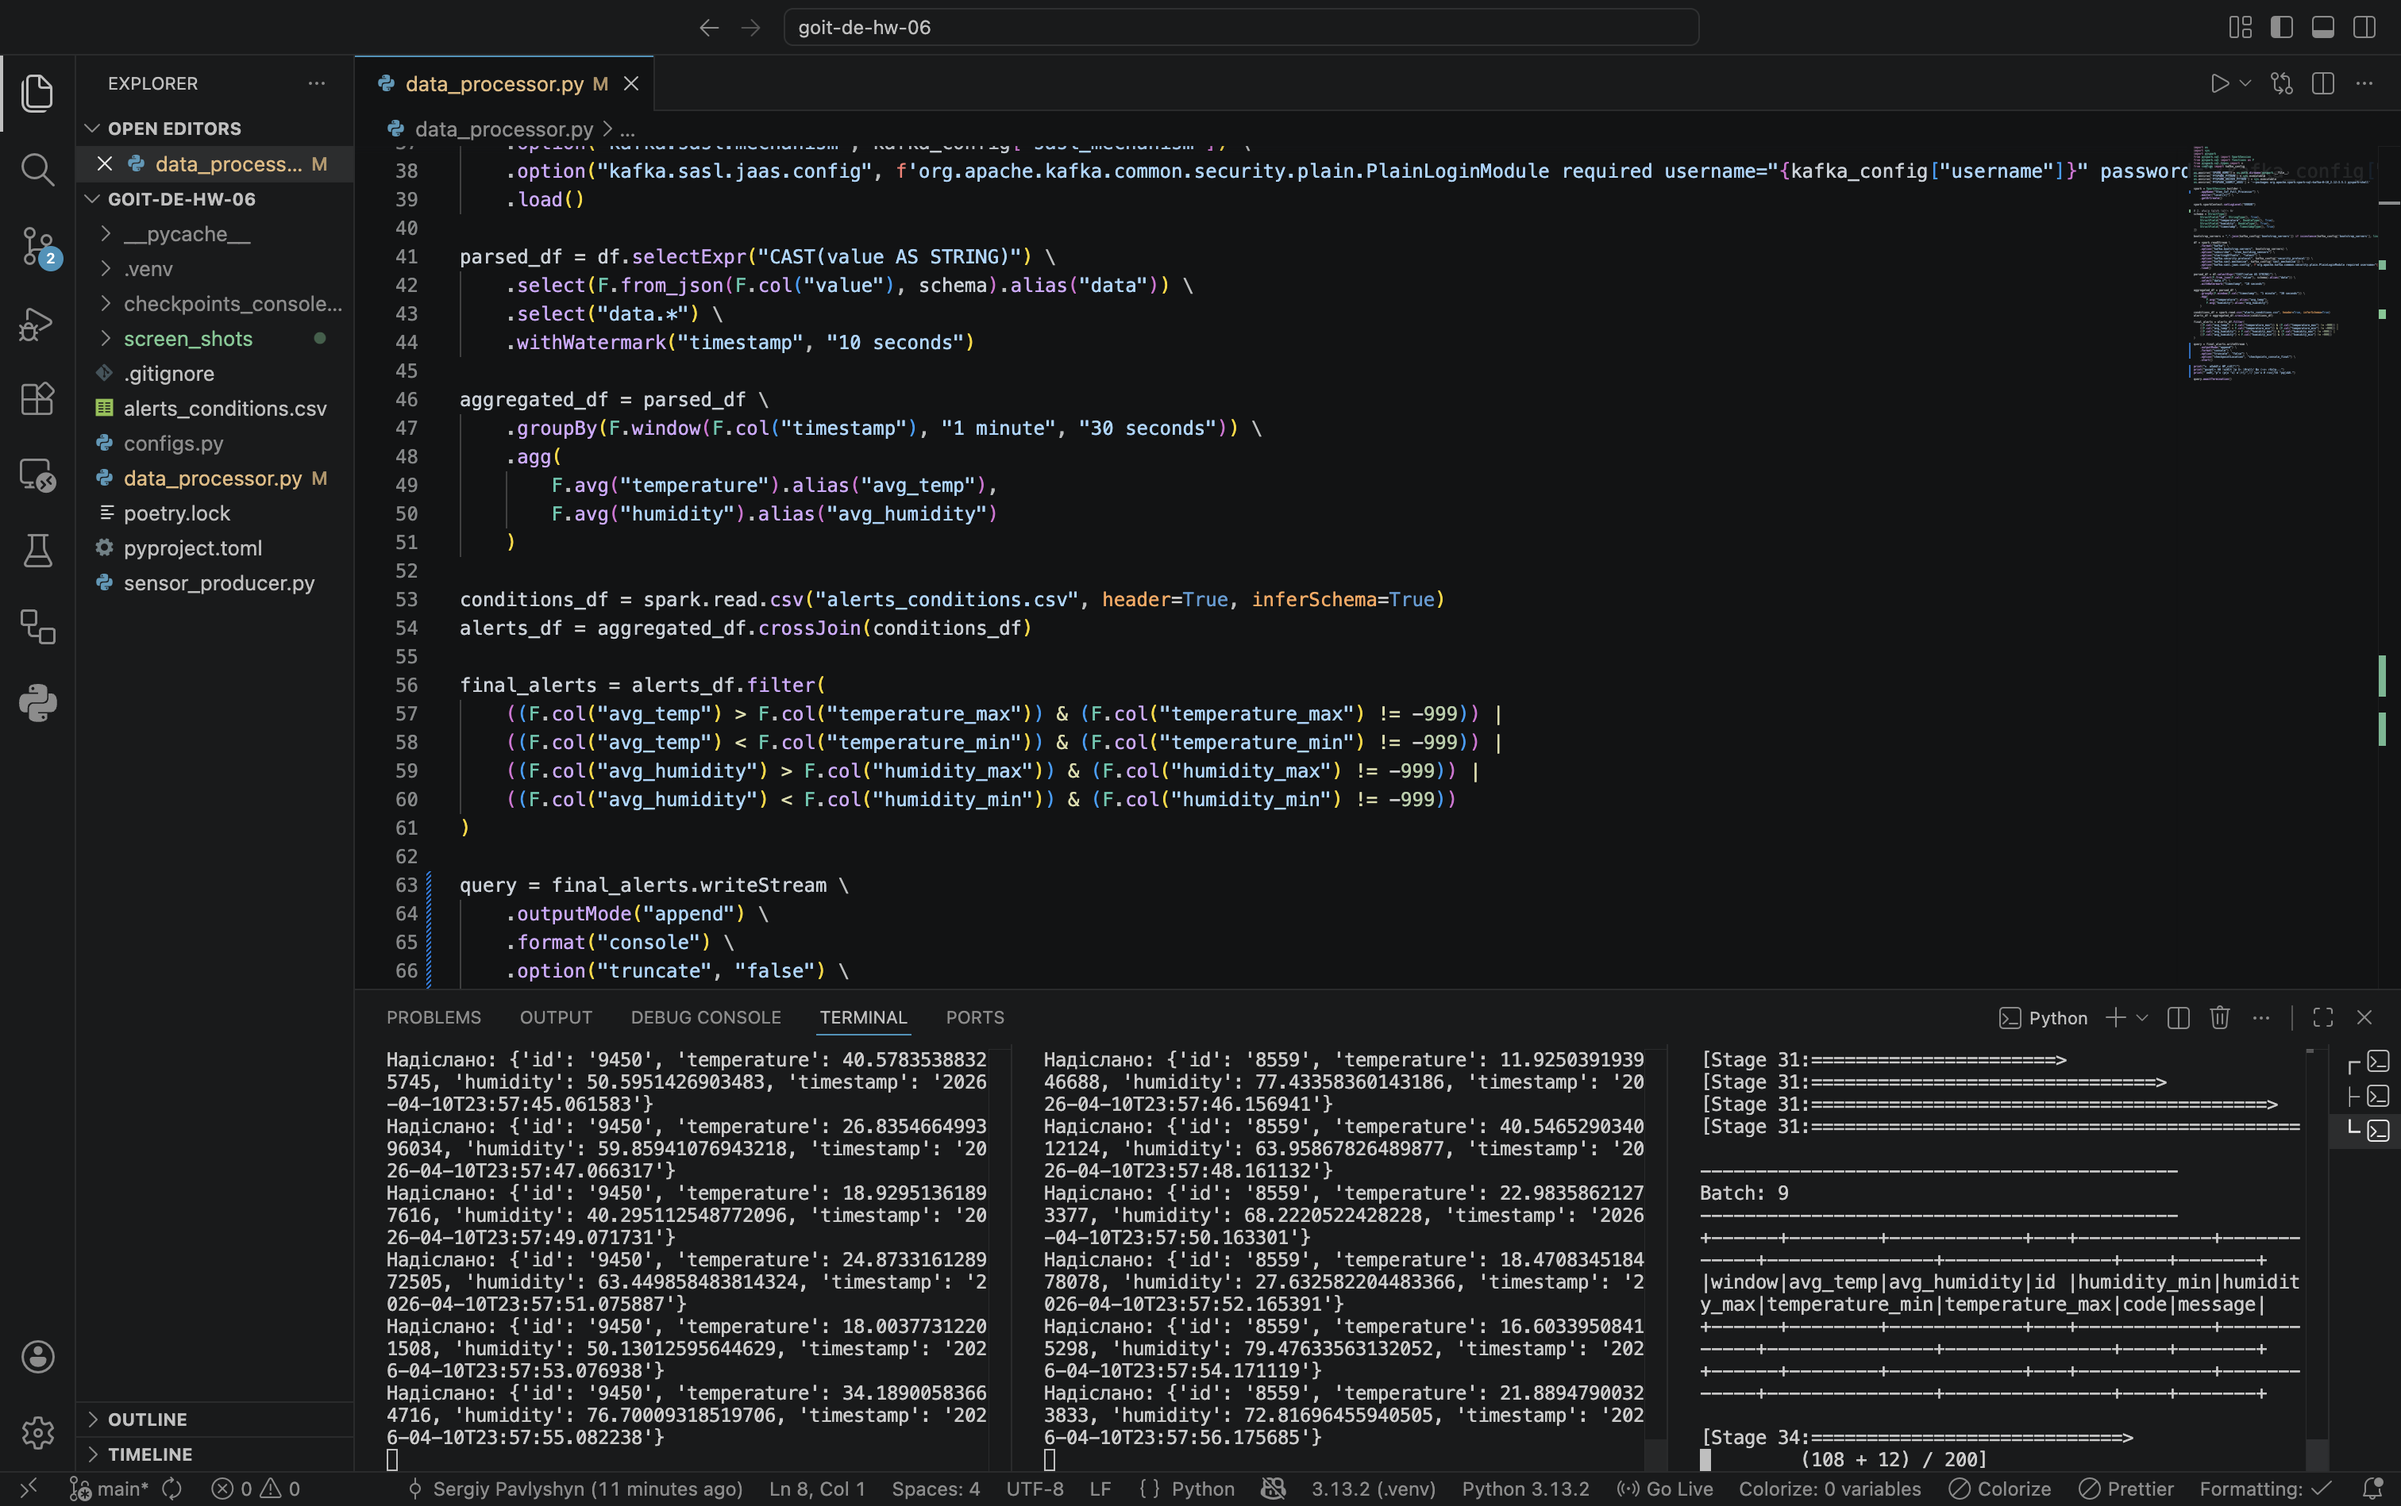
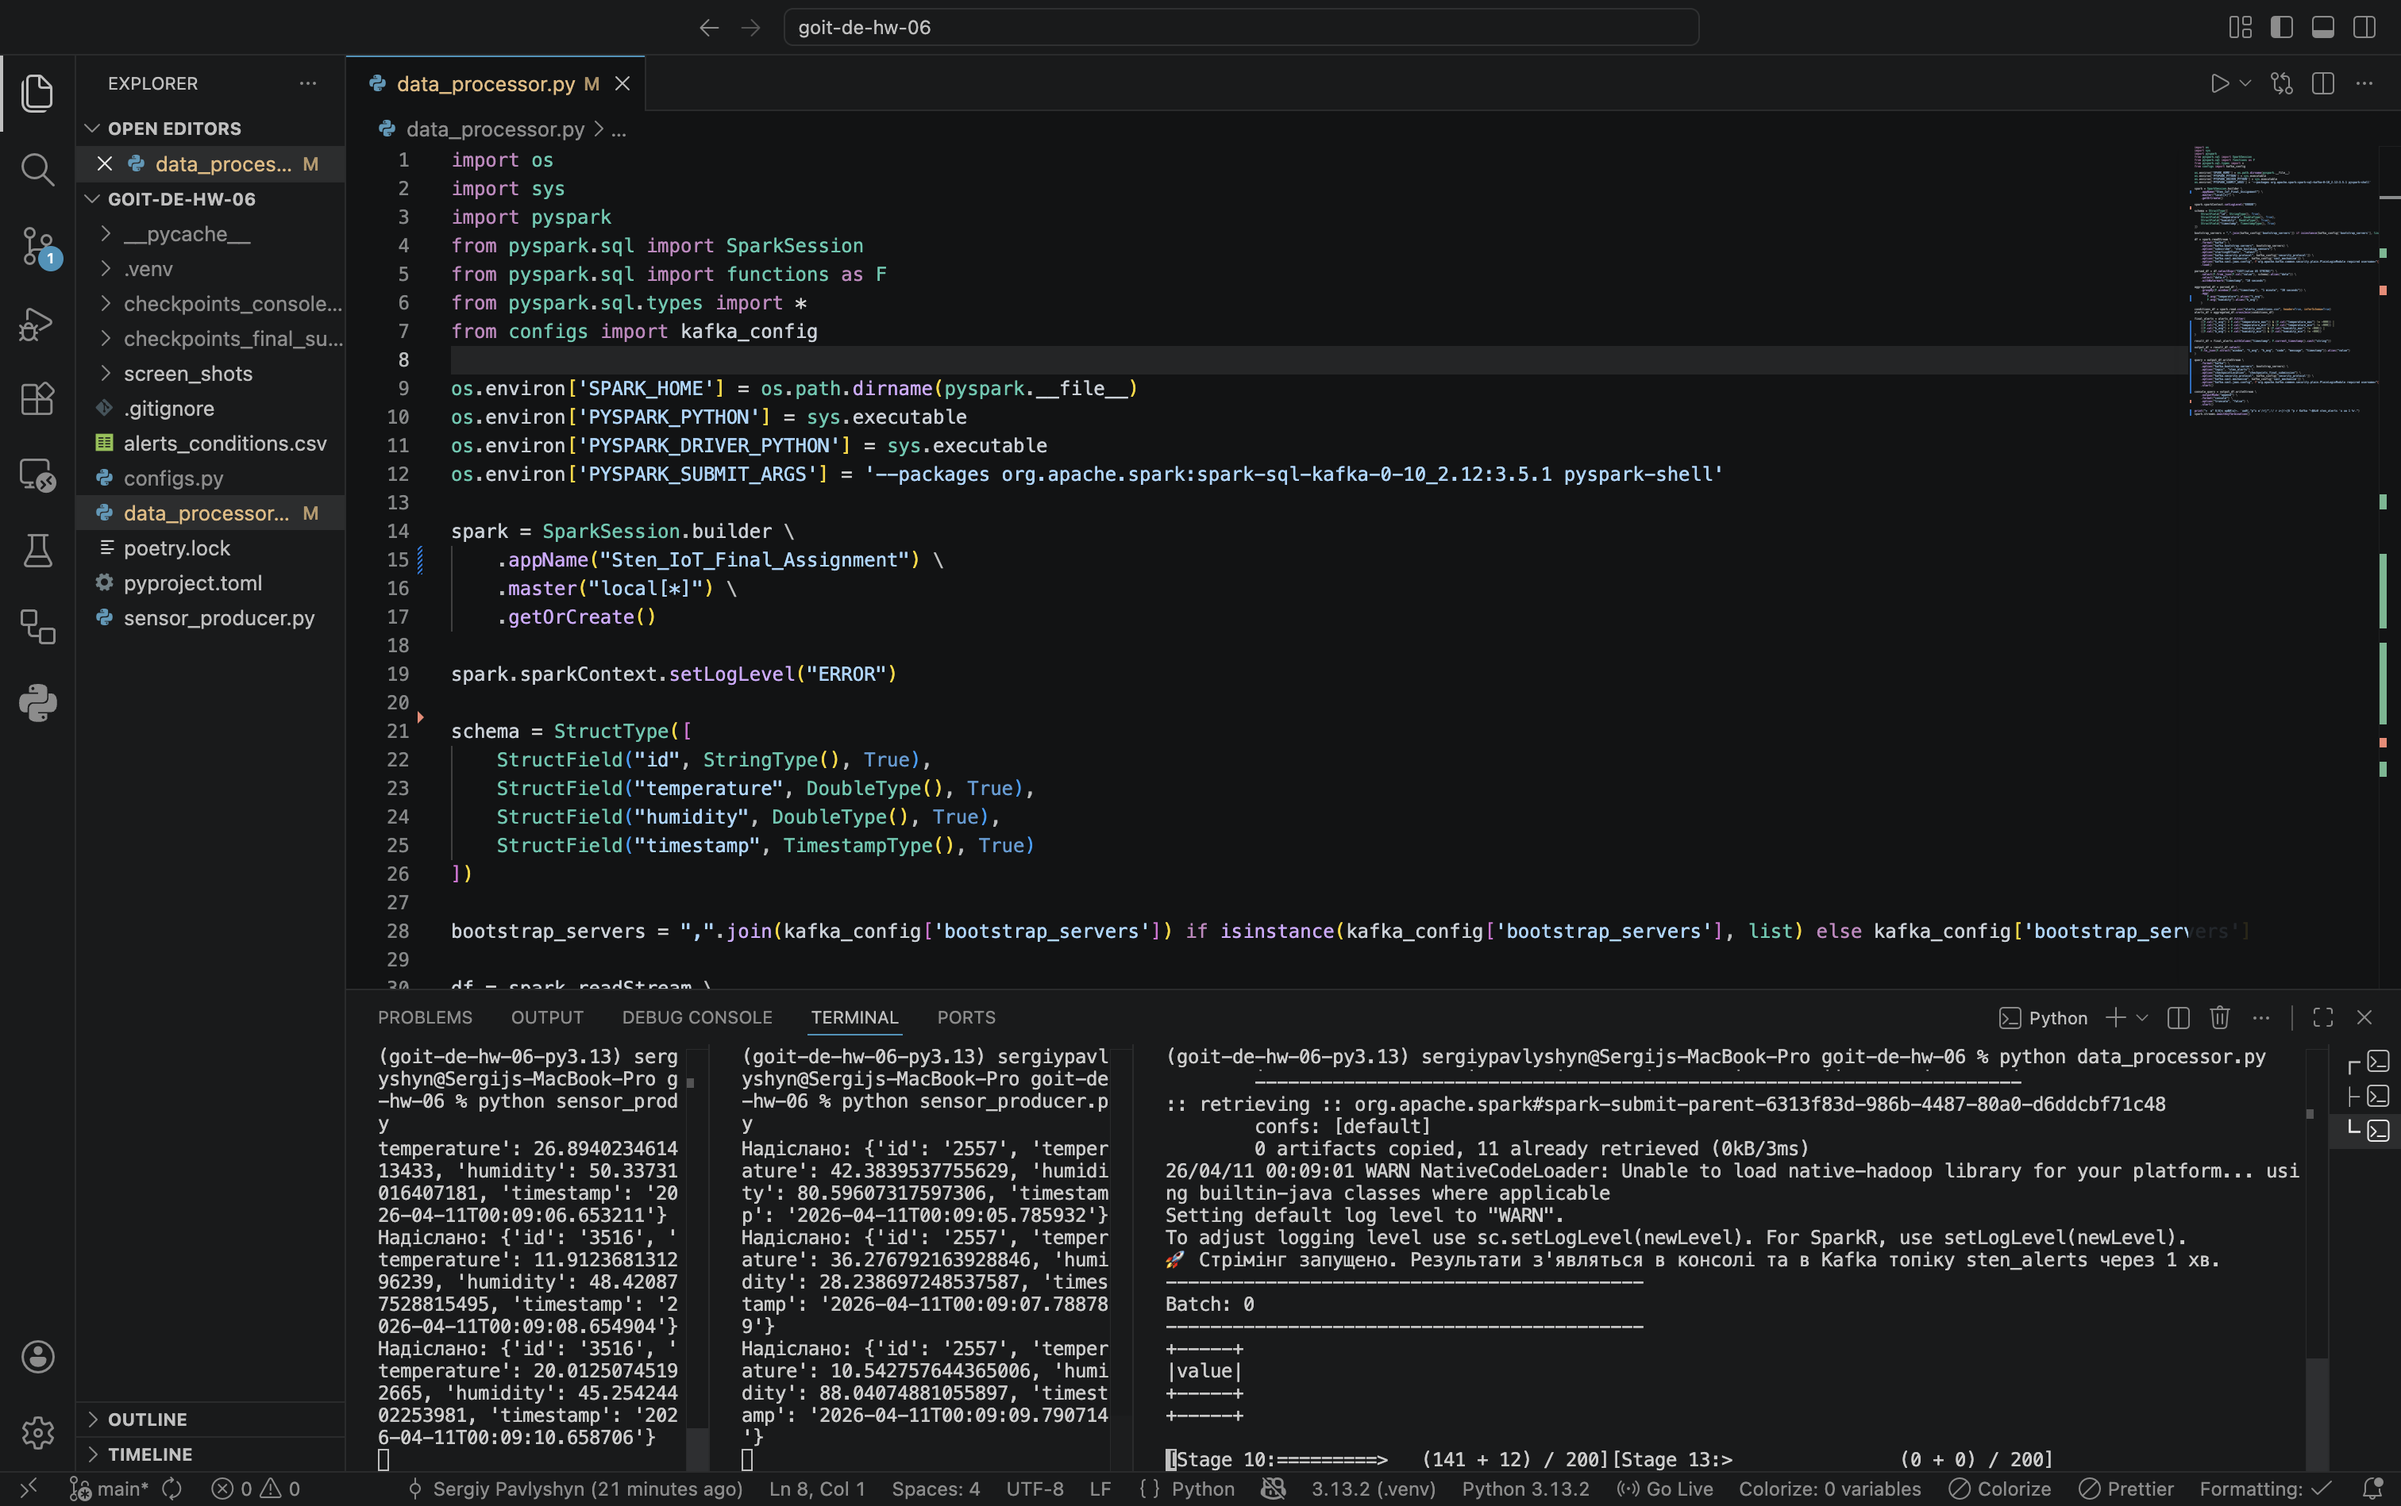
changed screenshots and data_processor.py

diff --git a/data_processor.py b/data_processor.py
@@ -12,13 +12,12 @@ os.environ['PYSPARK_DRIVER_PYTHON'] = sys.executable
 os.environ['PYSPARK_SUBMIT_ARGS'] = '--packages org.apache.spark:spark-sql-kafka-0-10_2.12:3.5.1 pyspark-shell'
 
 spark = SparkSession.builder \
-    .appName("Sten_IoT_Full_Processor") \
+    .appName("Sten_IoT_Final_Assignment") \
     .master("local[*]") \
     .getOrCreate()
 
 spark.sparkContext.setLogLevel("ERROR")
 
-# 2. Схема даних сенсорів
 schema = StructType([
     StructField("id", StringType(), True),
     StructField("temperature", DoubleType(), True),
@@ -46,29 +45,41 @@ parsed_df = df.selectExpr("CAST(value AS STRING)") \
 aggregated_df = parsed_df \
     .groupBy(F.window(F.col("timestamp"), "1 minute", "30 seconds")) \
     .agg(
-        F.avg("temperature").alias("avg_temp"),
-        F.avg("humidity").alias("avg_humidity")
+        F.avg("temperature").alias("t_avg"),
+        F.avg("humidity").alias("h_avg")
     )
 
 conditions_df = spark.read.csv("alerts_conditions.csv", header=True, inferSchema=True)
 alerts_df = aggregated_df.crossJoin(conditions_df)
 
 final_alerts = alerts_df.filter(
-    ((F.col("avg_temp") > F.col("temperature_max")) & (F.col("temperature_max") != -999)) |
-    ((F.col("avg_temp") < F.col("temperature_min")) & (F.col("temperature_min") != -999)) |
-    ((F.col("avg_humidity") > F.col("humidity_max")) & (F.col("humidity_max") != -999)) |
-    ((F.col("avg_humidity") < F.col("humidity_min")) & (F.col("humidity_min") != -999))
+    ((F.col("t_avg") > F.col("temperature_max")) & (F.col("temperature_max") != -999)) |
+    ((F.col("t_avg") < F.col("temperature_min")) & (F.col("temperature_min") != -999)) |
+    ((F.col("h_avg") > F.col("humidity_max")) & (F.col("humidity_max") != -999)) |
+    ((F.col("h_avg") < F.col("humidity_min")) & (F.col("humidity_min") != -999))
 )
 
-query = final_alerts.writeStream \
+result_df = final_alerts.withColumn("timestamp", F.current_timestamp().cast("string"))
+
+output_df = result_df.select(
+    F.to_json(F.struct("window", "t_avg", "h_avg", "code", "message", "timestamp")).alias("value")
+)
+
+query = output_df.writeStream \
+    .format("kafka") \
+    .option("kafka.bootstrap.servers", bootstrap_servers) \
+    .option("topic", "sten_alerts") \
+    .option("checkpointLocation", "checkpoints_final_submission") \
+    .option("kafka.security.protocol", kafka_config['security_protocol']) \
+    .option("kafka.sasl.mechanism", kafka_config['sasl_mechanism']) \
+    .option("kafka.sasl.jaas.config", f'org.apache.kafka.common.security.plain.PlainLoginModule required username="{kafka_config["username"]}" password="{kafka_config["password"]}";') \
+    .start()
+
+console_query = output_df.writeStream \
     .outputMode("append") \
     .format("console") \
     .option("truncate", "false") \
-    .option("checkpointLocation", "checkpoints_console_final") \
     .start()
 
-print("🚀 СИСТЕМУ ЗАПУЩЕНО!")
-print("Чекаємо 60 секунд на формування першого вікна...")
-print("Результати (алерти) з'являться нижче у вигляді таблиці.")
-
-query.awaitTermination()
+print("🚀 Стрімінг запущено. Результати з'являться в консолі та в Kafka топіку sten_alerts через 1 хв.")
+spark.streams.awaitAnyTermination()
